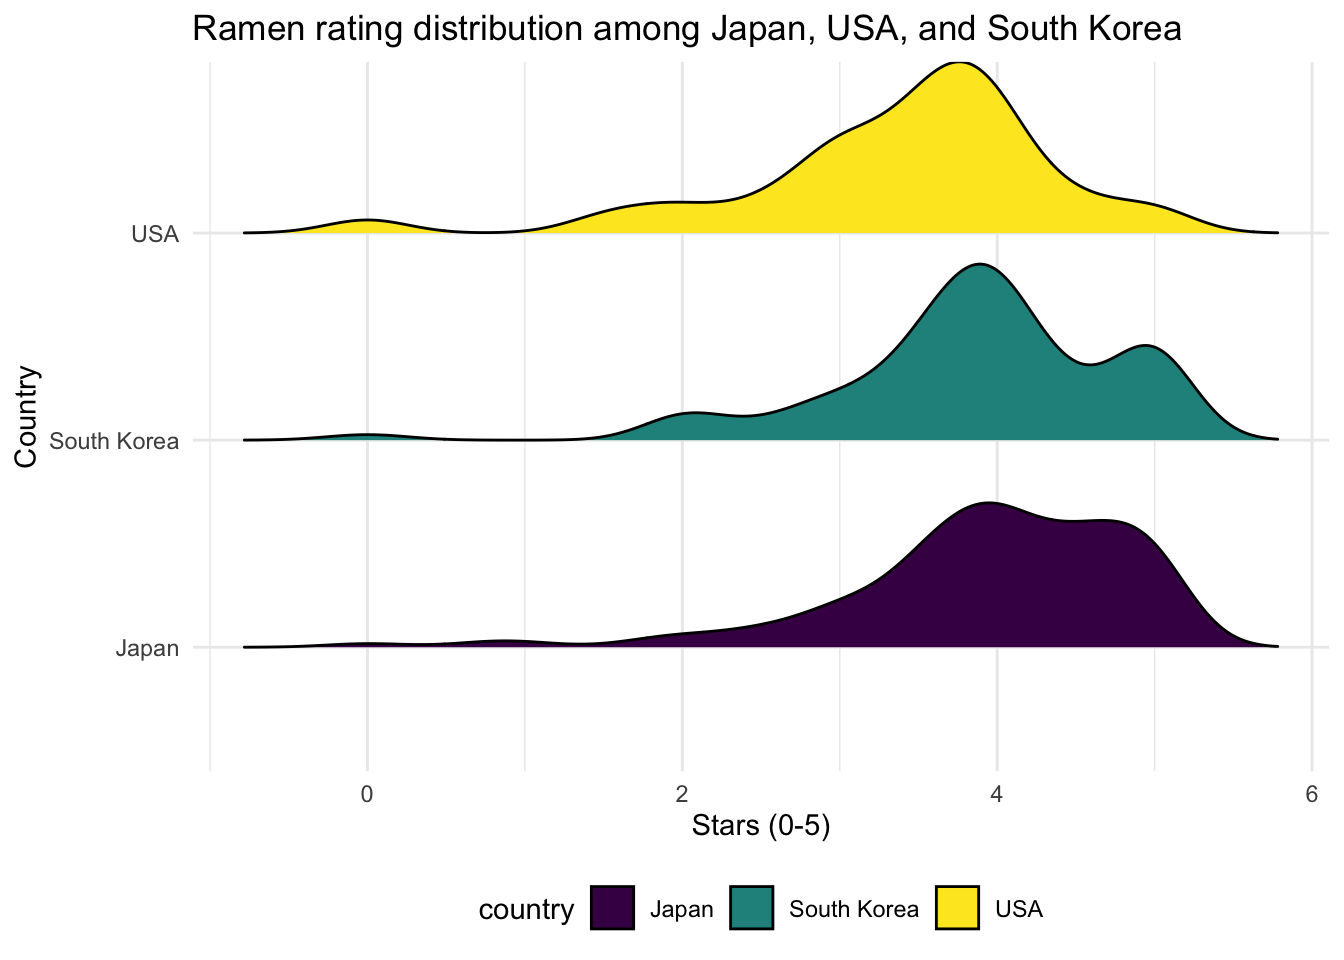
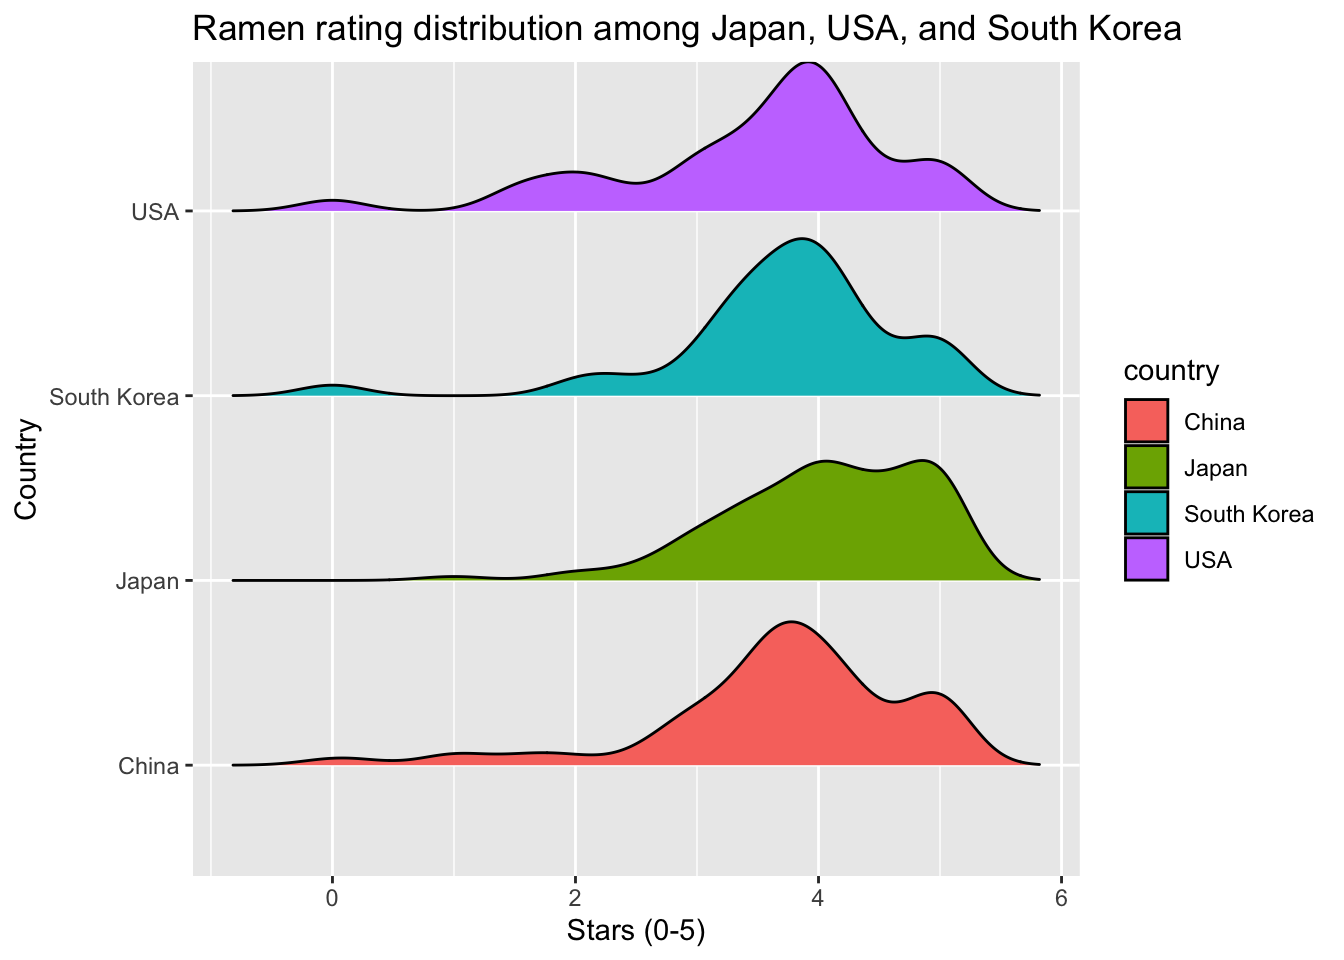
Insert bar graphs for top/bottom avg rating countries, and update previous table/graph

diff --git a/rating_by_country.html b/rating_by_country.html
@@ -25,6 +25,13 @@
 <script src="site_libs/navigation-1.1/tabsets.js"></script>
 <link href="site_libs/highlightjs-9.12.0/default.css" rel="stylesheet" />
 <script src="site_libs/highlightjs-9.12.0/highlight.js"></script>
+<script src="site_libs/htmlwidgets-1.5.1/htmlwidgets.js"></script>
+<script src="site_libs/plotly-binding-4.9.2.1/plotly.js"></script>
+<script src="site_libs/typedarray-0.1/typedarray.min.js"></script>
+<link href="site_libs/crosstalk-1.1.0.1/css/crosstalk.css" rel="stylesheet" />
+<script src="site_libs/crosstalk-1.1.0.1/js/crosstalk.min.js"></script>
+<link href="site_libs/plotly-htmlwidgets-css-1.52.2/plotly-htmlwidgets.css" rel="stylesheet" />
+<script src="site_libs/plotly-main-1.52.2/plotly-latest.min.js"></script>
 <link href="site_libs/font-awesome-5.1.0/css/all.css" rel="stylesheet" />
 <link href="site_libs/font-awesome-5.1.0/css/v4-shims.css" rel="stylesheet" />
 
@@ -387,12 +394,12 @@ div.tocify {
 <p><img src="pictures/ramen_world.jpg"></p>
 <div id="background-introduction" class="section level2">
 <h2>Background Introduction</h2>
-<p>There are 38 countries included in our Ramen dataset, with a total of 2580 ramen varieties.</p>
+<p>There are 36 countries included in our Ramen dataset, with a total of 2580 ramen varieties.</p>
 </div>
 <div id="top-ramen-produce-countries" class="section level2">
 <h2>Top Ramen Produce Countries</h2>
 <p>Can you imagine how popular ramen is in these countries?! <img src="rating_by_country_files/figure-html/unnamed-chunk-2-1.png" width="672" /></p>
-<p>The top three countries that produced the most ramens are Japan (n = 352), USA (n = 323) and South Korea (n = 309), with over 300 varieties of ramen recorded!</p>
+<p>The top four countries that produced the most ramens are China (n = 530), Japan (n = 352), USA (n = 323) and South Korea (n = 309), with over 300 varieties of ramen recorded! The count of ramen varieties produced by China far outweighs the ramen varieties in other countries.</p>
 <table>
 <thead>
 <tr class="header">
@@ -402,30 +409,37 @@ div.tocify {
 </thead>
 <tbody>
 <tr class="odd">
+<td align="left">China</td>
+<td align="right">530</td>
+</tr>
+<tr class="even">
 <td align="left">Japan</td>
 <td align="right">352</td>
 </tr>
-<tr class="even">
+<tr class="odd">
 <td align="left">USA</td>
 <td align="right">323</td>
 </tr>
-<tr class="odd">
+<tr class="even">
 <td align="left">South Korea</td>
 <td align="right">309</td>
 </tr>
 </tbody>
 </table>
-<div id="rating-distribution-among-top-three" class="section level3">
-<h3>Rating Distribution among Top Three</h3>
-<p>Now let’s take a closer look at the rating distribution among the top three ramen produce countries! <img src="rating_by_country_files/figure-html/unnamed-chunk-4-1.png" width="672" /></p>
-<p>According to the graph, it appears that most ramens produced by these countries have a peak rating score around 4. South Korea also has a second but smaller peak at score 5. Comparing to South Korea and USA, Japan has relatively higher rating scores with more rating scores at 5.</p>
+<div id="rating-distribution-among-top-three-ramen-produce-countries" class="section level3">
+<h3>Rating Distribution among Top Three Ramen Produce Countries</h3>
+<p>Now let’s take a closer look at the rating distribution among the top four ramen produce countries! <img src="rating_by_country_files/figure-html/unnamed-chunk-4-1.png" width="672" /></p>
+<p>According to the graph, it appears that most ramens produced by China, South Korea, and USA have a peak of rating scores around 4 stars and a second but smaller peak at score 5. Among all four countries, Japan has relatively higher rating scores with more rating scores at score around 4 to 5 stars.</p>
 </div>
 </div>
 <div id="top-average-rating-countries" class="section level2">
 <h2>Top Average Rating Countries</h2>
-<p>What are the top three countries that have the highest average rating scores on their ramens? Do you have any guess?</p>
+<p>What are the top countries that have the highest average rating scores on their ramens? Do you have any guess?</p>
 <p><img src="pictures/question.jpg"></p>
 <p>Here is the result!</p>
+<p>Let’s first take a look at the top 10 countries with the highest average rating scores :) (NOTE: Check out the average rating score for each country by moving your mouse to each bar) <div id="htmlwidget-af19d9deef4f9ef92dd9" style="width:672px;height:480px;" class="plotly html-widget"></div>
+<script type="application/json" data-for="htmlwidget-af19d9deef4f9ef92dd9">{"x":{"visdat":{"17d331964e5c0":["function () ","plotlyVisDat"]},"cur_data":"17d331964e5c0","attrs":{"17d331964e5c0":{"x":{},"y":{},"color":{},"alpha_stroke":1,"sizes":[10,100],"spans":[1,20],"type":"bar"}},"layout":{"margin":{"b":40,"l":60,"t":25,"r":10},"xaxis":{"domain":[0,1],"automargin":true,"title":"country","type":"category","categoryorder":"array","categoryarray":["South Korea","Fiji","Myanmar","Japan","Indonesia","Singapore","Malaysia","Cambodia","Sarawak","Brazil","Australia","Bangladesh","Canada","China","Colombia","Dubai","Estonia","Finland","Germany","Ghana","Holland","Hungary","India","Mexico","Nepal","Netherlands","Nigeria","Pakistan","Philippines","Poland","Sweden","Thailand","UK","United States","USA","Vietnam"]},"yaxis":{"domain":[0,1],"automargin":true,"title":"avg_rating"},"hovermode":"closest","showlegend":true},"source":"A","config":{"showSendToCloud":false},"data":[{"x":["South Korea"],"y":[3.79055374592834],"type":"bar","name":"South Korea","marker":{"color":"rgba(102,194,165,1)","line":{"color":"rgba(102,194,165,1)"}},"textfont":{"color":"rgba(102,194,165,1)"},"error_y":{"color":"rgba(102,194,165,1)"},"error_x":{"color":"rgba(102,194,165,1)"},"xaxis":"x","yaxis":"y","frame":null},{"x":["Fiji"],"y":[3.875],"type":"bar","name":"Fiji","marker":{"color":"rgba(147,186,151,1)","line":{"color":"rgba(147,186,151,1)"}},"textfont":{"color":"rgba(147,186,151,1)"},"error_y":{"color":"rgba(147,186,151,1)"},"error_x":{"color":"rgba(147,186,151,1)"},"xaxis":"x","yaxis":"y","frame":null},{"x":["Myanmar"],"y":[3.94642857142857],"type":"bar","name":"Myanmar","marker":{"color":"rgba(179,176,138,1)","line":{"color":"rgba(179,176,138,1)"}},"textfont":{"color":"rgba(179,176,138,1)"},"error_y":{"color":"rgba(179,176,138,1)"},"error_x":{"color":"rgba(179,176,138,1)"},"xaxis":"x","yaxis":"y","frame":null},{"x":["Japan"],"y":[3.98160511363636],"type":"bar","name":"Japan","marker":{"color":"rgba(207,166,125,1)","line":{"color":"rgba(207,166,125,1)"}},"textfont":{"color":"rgba(207,166,125,1)"},"error_y":{"color":"rgba(207,166,125,1)"},"error_x":{"color":"rgba(207,166,125,1)"},"xaxis":"x","yaxis":"y","frame":null},{"x":["Indonesia"],"y":[4.06746031746032],"type":"bar","name":"Indonesia","marker":{"color":"rgba(230,155,111,1)","line":{"color":"rgba(230,155,111,1)"}},"textfont":{"color":"rgba(230,155,111,1)"},"error_y":{"color":"rgba(230,155,111,1)"},"error_x":{"color":"rgba(230,155,111,1)"},"xaxis":"x","yaxis":"y","frame":null},{"x":["Singapore"],"y":[4.12614678899083],"type":"bar","name":"Singapore","marker":{"color":"rgba(252,141,98,1)","line":{"color":"rgba(252,141,98,1)"}},"textfont":{"color":"rgba(252,141,98,1)"},"error_y":{"color":"rgba(252,141,98,1)"},"error_x":{"color":"rgba(252,141,98,1)"},"xaxis":"x","yaxis":"y","frame":null},{"x":["Malaysia"],"y":[4.1541935483871],"type":"bar","name":"Malaysia","marker":{"color":"rgba(235,145,120,1)","line":{"color":"rgba(235,145,120,1)"}},"textfont":{"color":"rgba(235,145,120,1)"},"error_y":{"color":"rgba(235,145,120,1)"},"error_x":{"color":"rgba(235,145,120,1)"},"xaxis":"x","yaxis":"y","frame":null},{"x":["Cambodia"],"y":[4.2],"type":"bar","name":"Cambodia","marker":{"color":"rgba(217,150,141,1)","line":{"color":"rgba(217,150,141,1)"}},"textfont":{"color":"rgba(217,150,141,1)"},"error_y":{"color":"rgba(217,150,141,1)"},"error_x":{"color":"rgba(217,150,141,1)"},"xaxis":"x","yaxis":"y","frame":null},{"x":["Sarawak"],"y":[4.33333333333333],"type":"bar","name":"Sarawak","marker":{"color":"rgba(196,153,161,1)","line":{"color":"rgba(196,153,161,1)"}},"textfont":{"color":"rgba(196,153,161,1)"},"error_y":{"color":"rgba(196,153,161,1)"},"error_x":{"color":"rgba(196,153,161,1)"},"xaxis":"x","yaxis":"y","frame":null},{"x":["Brazil"],"y":[4.35],"type":"bar","name":"Brazil","marker":{"color":"rgba(172,157,182,1)","line":{"color":"rgba(172,157,182,1)"}},"textfont":{"color":"rgba(172,157,182,1)"},"error_y":{"color":"rgba(172,157,182,1)"},"error_x":{"color":"rgba(172,157,182,1)"},"xaxis":"x","yaxis":"y","frame":null}],"highlight":{"on":"plotly_click","persistent":false,"dynamic":false,"selectize":false,"opacityDim":0.2,"selected":{"opacity":1},"debounce":0},"shinyEvents":["plotly_hover","plotly_click","plotly_selected","plotly_relayout","plotly_brushed","plotly_brushing","plotly_clickannotation","plotly_doubleclick","plotly_deselect","plotly_afterplot","plotly_sunburstclick"],"base_url":"https://plot.ly"},"evals":[],"jsHooks":[]}</script></p>
+<p>Does the result differ from your expectation? It appears that the top ten average rating countries have average rating scores between the range of 3.5 and 4.5 out of 5 stars. Brazil had the highest average rating score (4.35 out of 5) among all countries, followed by Sarawak (score 4.33 out of 5) and Cambodia (score 4.20 out of 5). These countries produced ramens with higher quality (better taste) despite that they were not the top ramen producers in quantity.</p>
 <table>
 <thead>
 <tr class="header">
@@ -448,11 +462,13 @@ div.tocify {
 </tr>
 </tbody>
 </table>
-<p>Does the result differ from your expectation? It appears that Brazil had the highest average rating score (4.35 out of 5) among all countries, followed by Sarawak (score 4.33 out of 5) and Cambodia (score 4.20 out of 5).</p>
 </div>
 <div id="bottom-average-rating-countries" class="section level2">
 <h2>Bottom Average Rating Countries</h2>
-<p>What about the bottom three countries that have the lowest average rating scores on their ramens?</p>
+<p>What about the bottom countries that have the lowest average rating scores on their ramens?</p>
+<p>Check out the bottom 10 countries with the lowest average rating scores below! (NOTE: Check out the average rating score for each country by moving your mouse to each bar) <div id="htmlwidget-fc5f5cd4f4c90d3c33b0" style="width:672px;height:480px;" class="plotly html-widget"></div>
+<script type="application/json" data-for="htmlwidget-fc5f5cd4f4c90d3c33b0">{"x":{"visdat":{"17d332053dc9b":["function () ","plotlyVisDat"]},"cur_data":"17d332053dc9b","attrs":{"17d332053dc9b":{"x":{},"y":{},"color":{},"alpha_stroke":1,"sizes":[10,100],"spans":[1,20],"type":"bar"}},"layout":{"margin":{"b":40,"l":60,"t":25,"r":10},"xaxis":{"domain":[0,1],"automargin":true,"title":"country","type":"category","categoryorder":"array","categoryarray":["Nigeria","Canada","Netherlands","UK","Pakistan","Australia","Vietnam","Sweden","Colombia","Philippines","Bangladesh","Brazil","Cambodia","China","Dubai","Estonia","Fiji","Finland","Germany","Ghana","Holland","Hungary","India","Indonesia","Japan","Malaysia","Mexico","Myanmar","Nepal","Poland","Sarawak","Singapore","South Korea","Thailand","United States","USA"]},"yaxis":{"domain":[0,1],"automargin":true,"title":"avg_rating"},"hovermode":"closest","showlegend":true},"source":"A","config":{"showSendToCloud":false},"data":[{"x":["Nigeria"],"y":[1.5],"type":"bar","name":"Nigeria","marker":{"color":"rgba(102,194,165,1)","line":{"color":"rgba(102,194,165,1)"}},"textfont":{"color":"rgba(102,194,165,1)"},"error_y":{"color":"rgba(102,194,165,1)"},"error_x":{"color":"rgba(102,194,165,1)"},"xaxis":"x","yaxis":"y","frame":null},{"x":["Canada"],"y":[2.24390243902439],"type":"bar","name":"Canada","marker":{"color":"rgba(147,186,151,1)","line":{"color":"rgba(147,186,151,1)"}},"textfont":{"color":"rgba(147,186,151,1)"},"error_y":{"color":"rgba(147,186,151,1)"},"error_x":{"color":"rgba(147,186,151,1)"},"xaxis":"x","yaxis":"y","frame":null},{"x":["Netherlands"],"y":[2.48333333333333],"type":"bar","name":"Netherlands","marker":{"color":"rgba(179,176,138,1)","line":{"color":"rgba(179,176,138,1)"}},"textfont":{"color":"rgba(179,176,138,1)"},"error_y":{"color":"rgba(179,176,138,1)"},"error_x":{"color":"rgba(179,176,138,1)"},"xaxis":"x","yaxis":"y","frame":null},{"x":["UK"],"y":[2.99710144927536],"type":"bar","name":"UK","marker":{"color":"rgba(207,166,125,1)","line":{"color":"rgba(207,166,125,1)"}},"textfont":{"color":"rgba(207,166,125,1)"},"error_y":{"color":"rgba(207,166,125,1)"},"error_x":{"color":"rgba(207,166,125,1)"},"xaxis":"x","yaxis":"y","frame":null},{"x":["Pakistan"],"y":[3],"type":"bar","name":"Pakistan","marker":{"color":"rgba(230,155,111,1)","line":{"color":"rgba(230,155,111,1)"}},"textfont":{"color":"rgba(230,155,111,1)"},"error_y":{"color":"rgba(230,155,111,1)"},"error_x":{"color":"rgba(230,155,111,1)"},"xaxis":"x","yaxis":"y","frame":null},{"x":["Australia"],"y":[3.13863636363636],"type":"bar","name":"Australia","marker":{"color":"rgba(252,141,98,1)","line":{"color":"rgba(252,141,98,1)"}},"textfont":{"color":"rgba(252,141,98,1)"},"error_y":{"color":"rgba(252,141,98,1)"},"error_x":{"color":"rgba(252,141,98,1)"},"xaxis":"x","yaxis":"y","frame":null},{"x":["Vietnam"],"y":[3.18796296296296],"type":"bar","name":"Vietnam","marker":{"color":"rgba(235,145,120,1)","line":{"color":"rgba(235,145,120,1)"}},"textfont":{"color":"rgba(235,145,120,1)"},"error_y":{"color":"rgba(235,145,120,1)"},"error_x":{"color":"rgba(235,145,120,1)"},"xaxis":"x","yaxis":"y","frame":null},{"x":["Sweden"],"y":[3.25],"type":"bar","name":"Sweden","marker":{"color":"rgba(217,150,141,1)","line":{"color":"rgba(217,150,141,1)"}},"textfont":{"color":"rgba(217,150,141,1)"},"error_y":{"color":"rgba(217,150,141,1)"},"error_x":{"color":"rgba(217,150,141,1)"},"xaxis":"x","yaxis":"y","frame":null},{"x":["Colombia"],"y":[3.29166666666667],"type":"bar","name":"Colombia","marker":{"color":"rgba(196,153,161,1)","line":{"color":"rgba(196,153,161,1)"}},"textfont":{"color":"rgba(196,153,161,1)"},"error_y":{"color":"rgba(196,153,161,1)"},"error_x":{"color":"rgba(196,153,161,1)"},"xaxis":"x","yaxis":"y","frame":null},{"x":["Philippines"],"y":[3.32978723404255],"type":"bar","name":"Philippines","marker":{"color":"rgba(172,157,182,1)","line":{"color":"rgba(172,157,182,1)"}},"textfont":{"color":"rgba(172,157,182,1)"},"error_y":{"color":"rgba(172,157,182,1)"},"error_x":{"color":"rgba(172,157,182,1)"},"xaxis":"x","yaxis":"y","frame":null}],"highlight":{"on":"plotly_click","persistent":false,"dynamic":false,"selectize":false,"opacityDim":0.2,"selected":{"opacity":1},"debounce":0},"shinyEvents":["plotly_hover","plotly_click","plotly_selected","plotly_relayout","plotly_brushed","plotly_brushing","plotly_clickannotation","plotly_doubleclick","plotly_deselect","plotly_afterplot","plotly_sunburstclick"],"base_url":"https://plot.ly"},"evals":[],"jsHooks":[]}</script></p>
+<p>Nigeria had the lowest average rating score (1.50 out of 5) among all countries, followed by Canada (score 2.24 out of 5) and Netherlands (score 2.48 out of 5). The other countries had average rating scores approximate to 3 out of 5.</p>
 <table>
 <thead>
 <tr class="header">
@@ -475,7 +491,6 @@ div.tocify {
 </tr>
 </tbody>
 </table>
-<p>Nigeria had the lowest average rating score (1.50 out of 5) among all countries, followed by Canada (score 2.24 out of 5) and Netherlands (score 2.48 out of 5).</p>
 </div>
 
 
